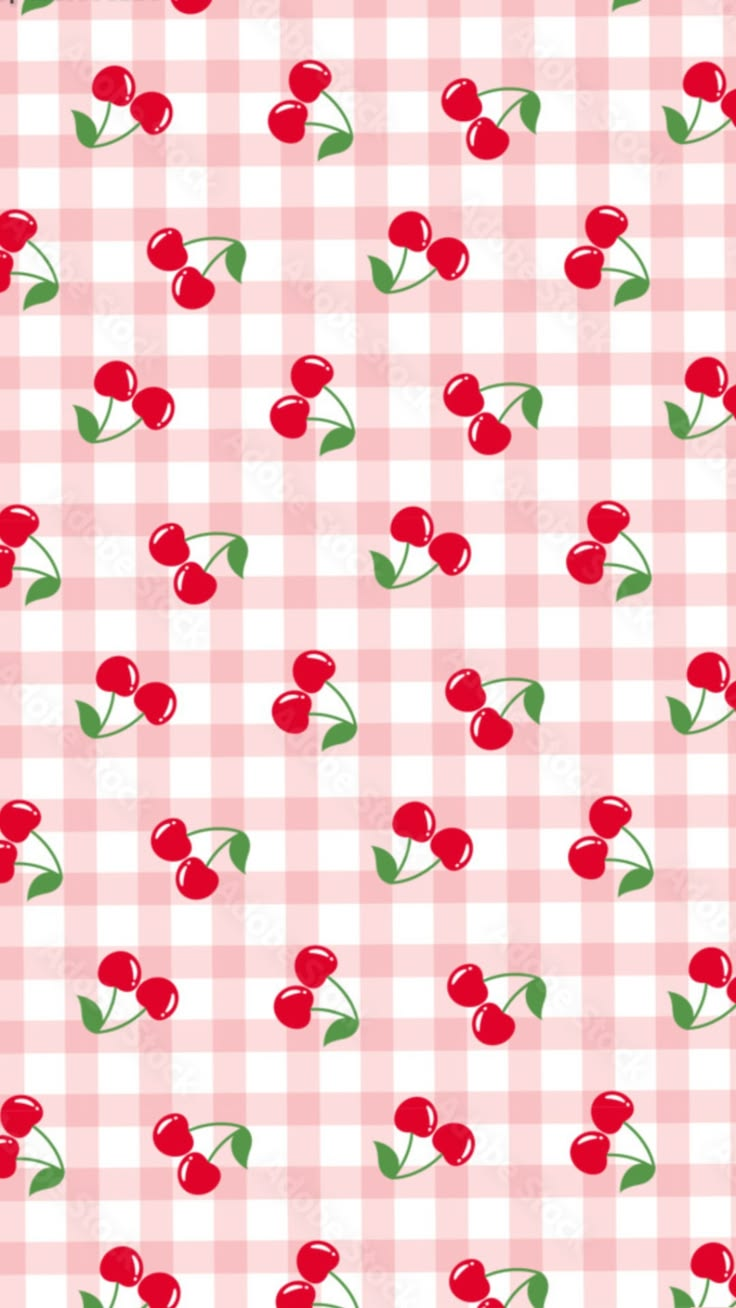
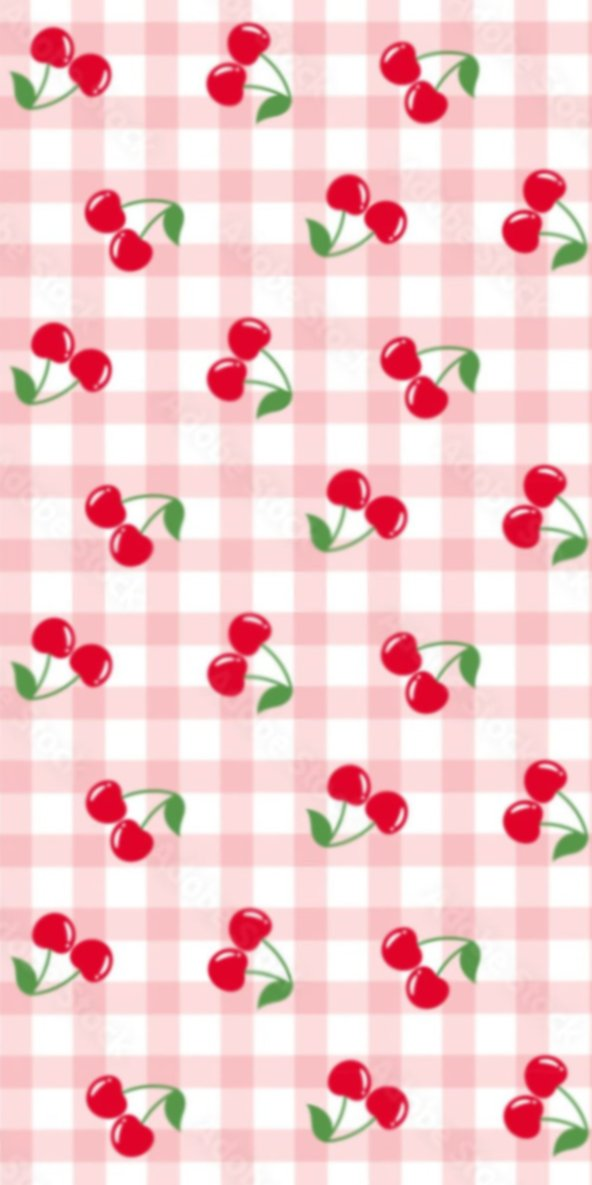
fix crois

diff --git a/calendar-mobile.html b/calendar-mobile.html
@@ -561,9 +561,7 @@
             var swiper = $(".slide" + month);
             swiper.css(
               "background",
-              "url('img/bgs/" +
-                month +
-                ".jpg') center center / cover no-repeat",
+              "url('img/bgs/" + month + ".jpg') repeat 0 0",
             );
             calendario.empty();
 
